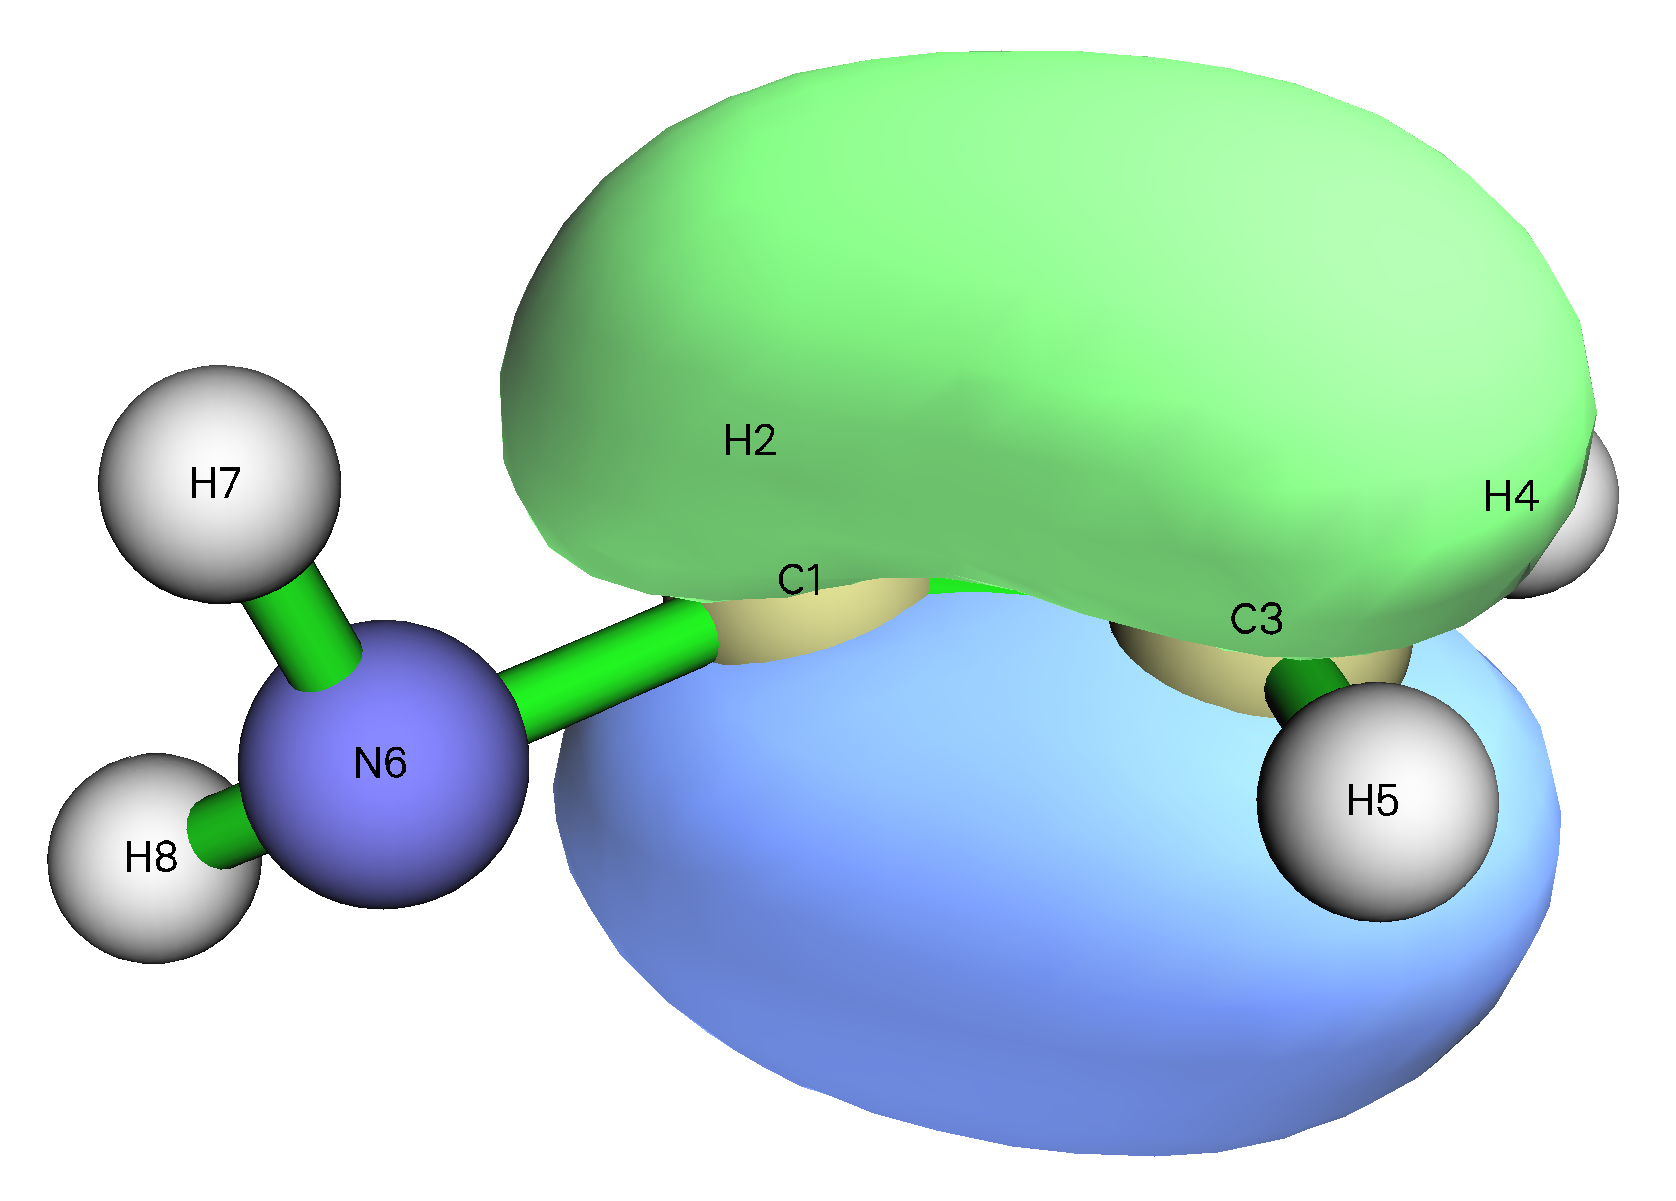
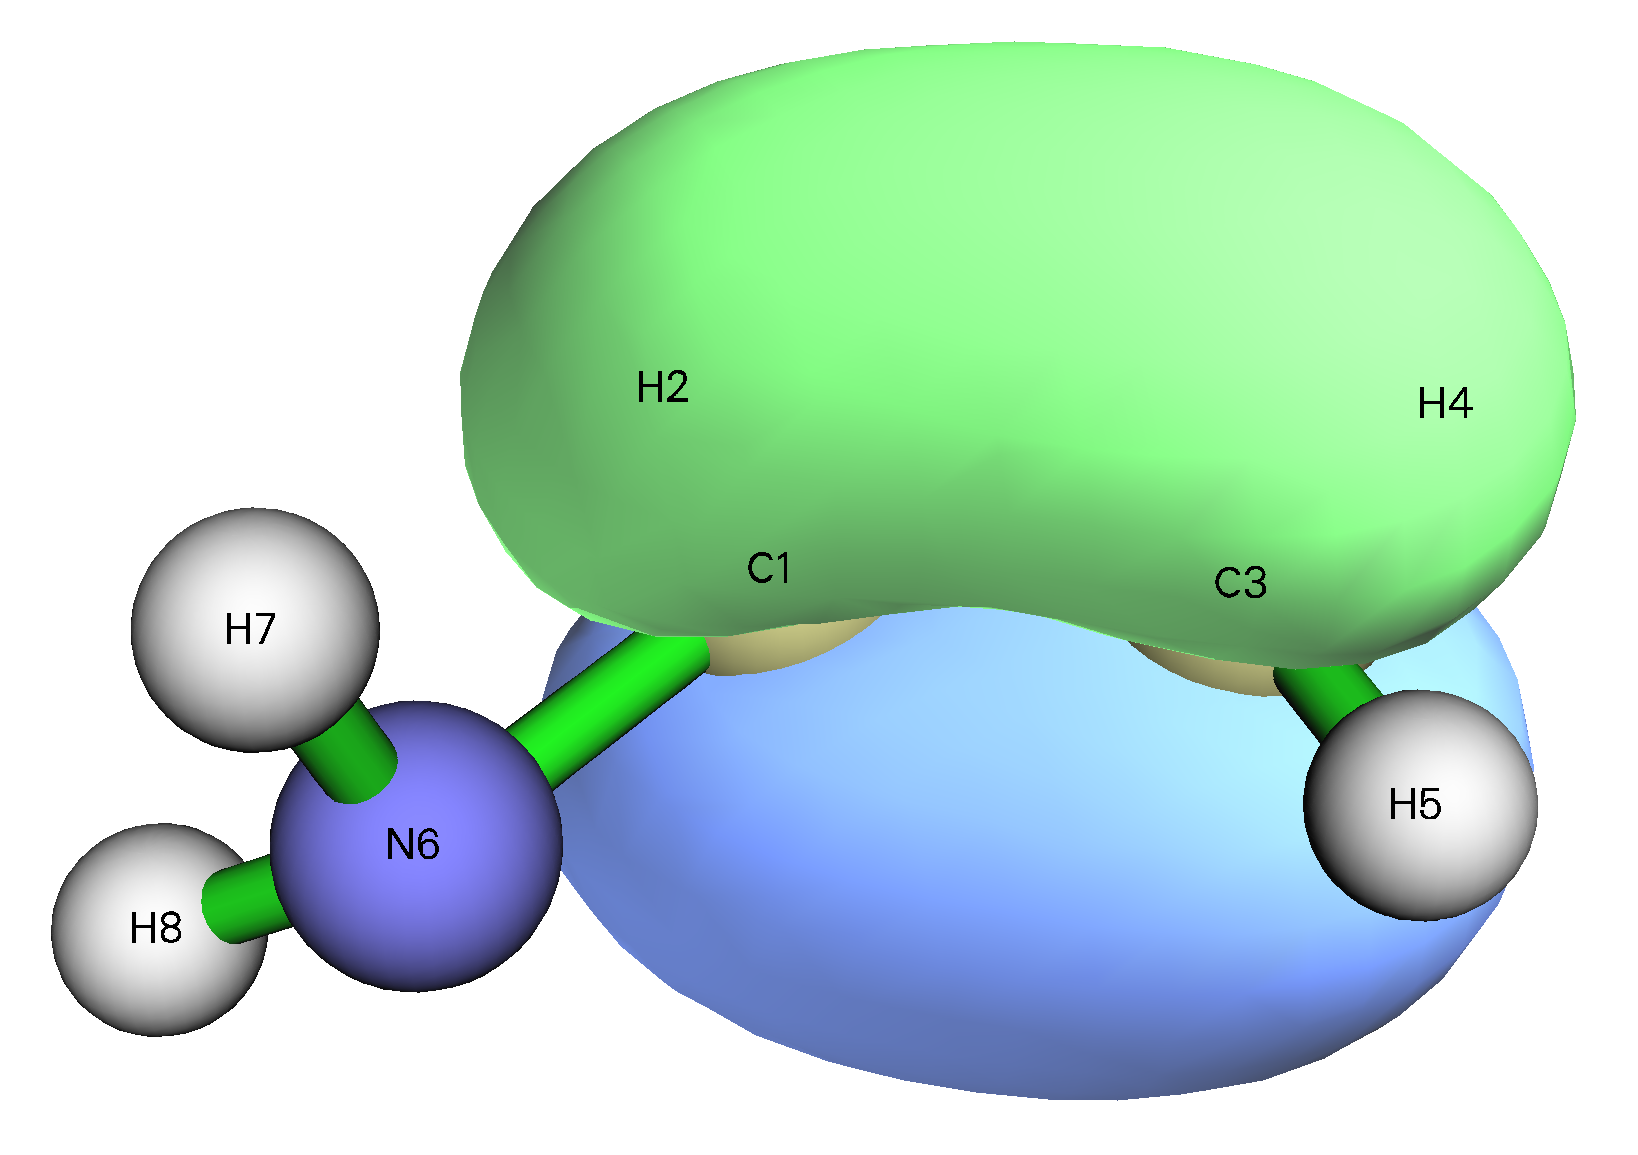
exercise 04

diff --git a/exe04/task1/painting/PMorbs/exe4tak1.py b/exe04/task1/painting/PMorbs/exe4tak1.py
@@ -7,22 +7,22 @@ mpl.rcParams["axes.unicode_minus"] = False
 
 fig, ax = plt.subplots(1, 3, dpi=120, figsize=(12, 4.5))
 
-outfile1 = plt.imread("000011.png")
+outfile1 = plt.imread("000004.png")
 outfile2 = plt.imread("000006.png")
-outfile3 = plt.imread("000014.png")
+outfile3 = plt.imread("000155.png")
 
 
 ax[0].imshow(outfile1)
 ax[0].set_axis_off()
-ax[0].set_title("(a) N原子上的孤对电子轨道", y=-0.33)
+ax[0].set_title("(a) N原子上的孤对电子轨道", y=-0.12)
 
 ax[1].imshow(outfile2)
 ax[1].set_axis_off()
-ax[1].set_title("(b) 碳碳双键的π键的成键轨道", y=-0.14)
+ax[1].set_title("(b) 碳碳双键的π键的成键轨道", y=-0.17)
 
 ax[2].imshow(outfile3)
 ax[2].set_axis_off()
-ax[2].set_title("(c) 碳碳双键的π键的反键轨道", y=-0.11)
+ax[2].set_title("(c) 碳碳双键的π键的反键轨道", y=-0.21)
 
 fig.suptitle("图4-2 N上的孤对电子轨道、碳碳双键的π键的成键轨道与反键轨道的PM局域化轨道图像", y=0.05, va="top")
 
